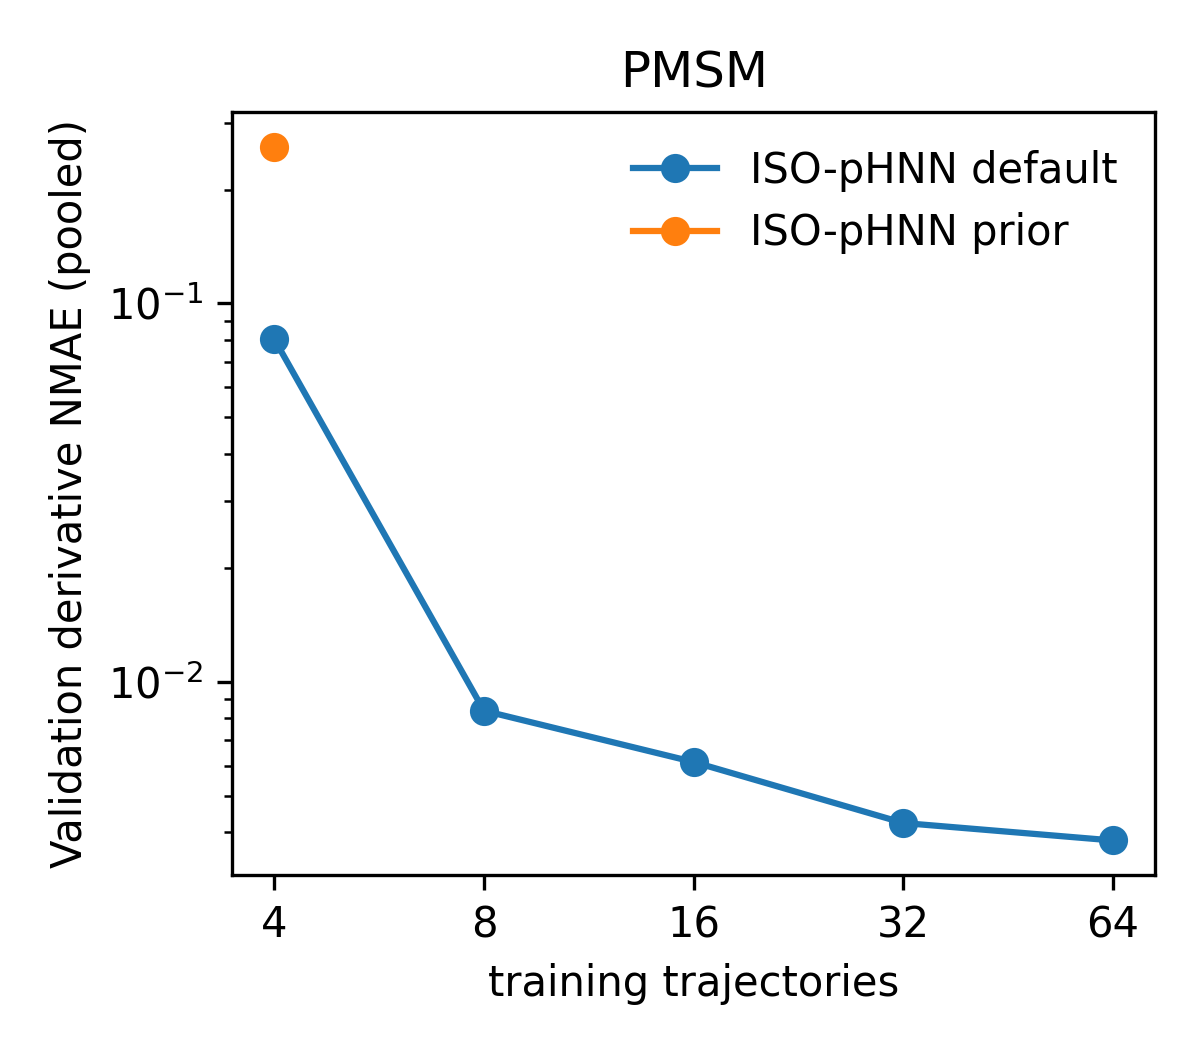
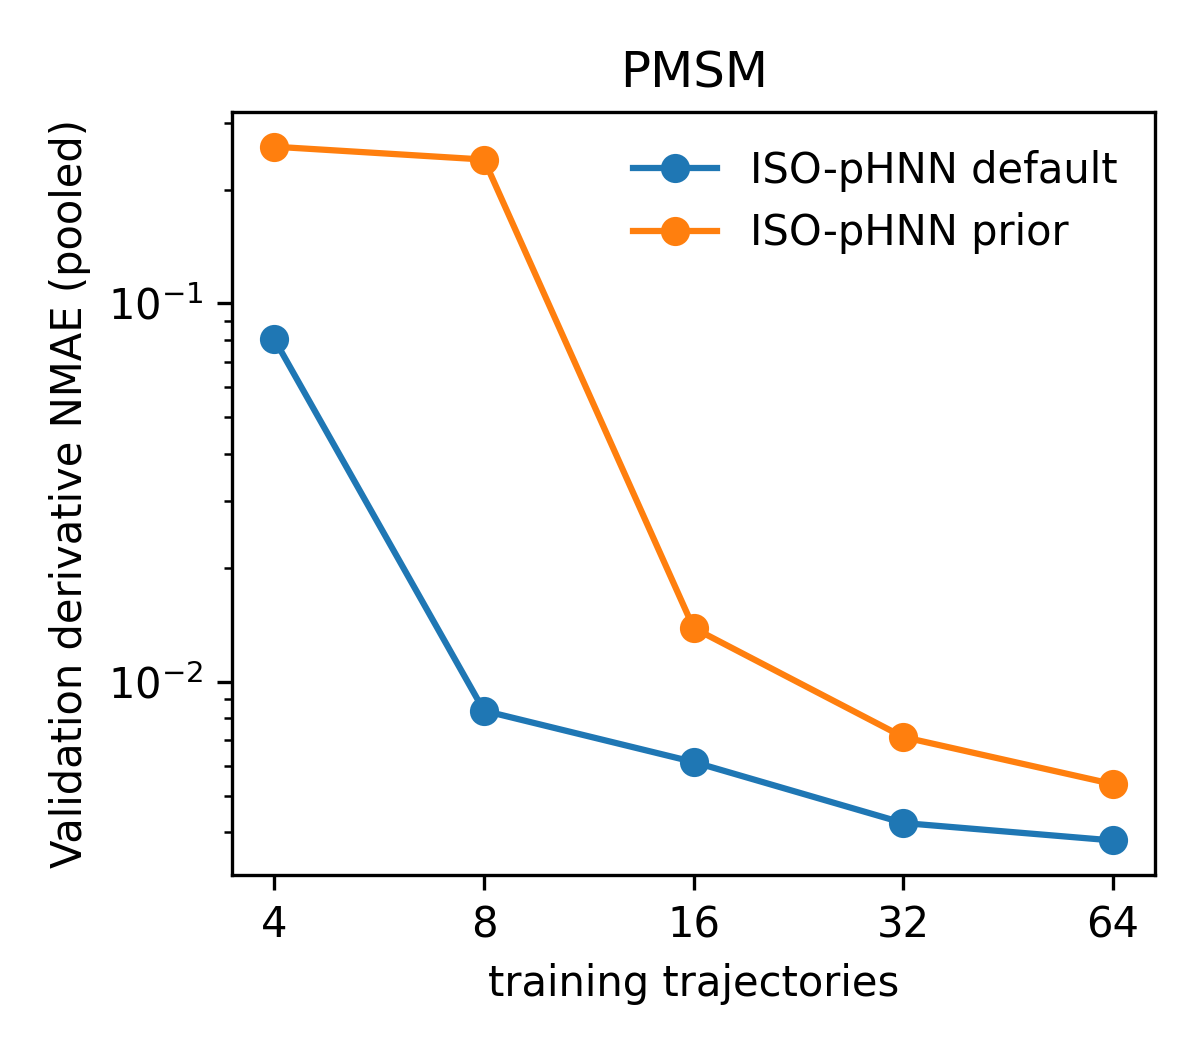
updated

diff --git a/experiments-PH-SINDY/scripts/plot_results.py b/experiments-PH-SINDY/scripts/plot_results.py
@@ -11,7 +11,7 @@ import numpy as np
 # validate and summarize
 # plot and save figures
 # usage:
-# python plot_results.py <results_dir>
+# python experiments-PH-SINDY/scripts/plot_results.py experiments-PH-SINDY/results/tracking/ --system motor
 
 
 # 1. Select the results directory.
